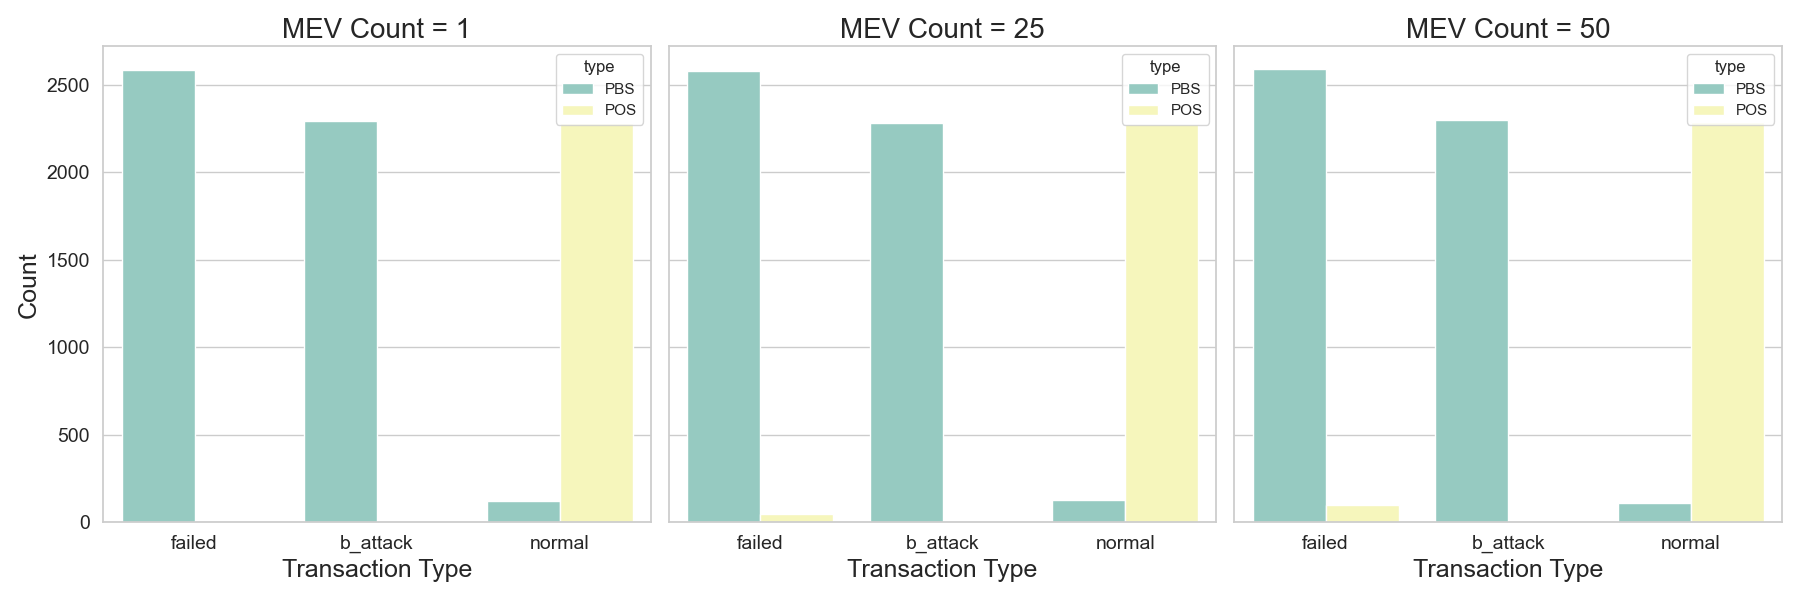
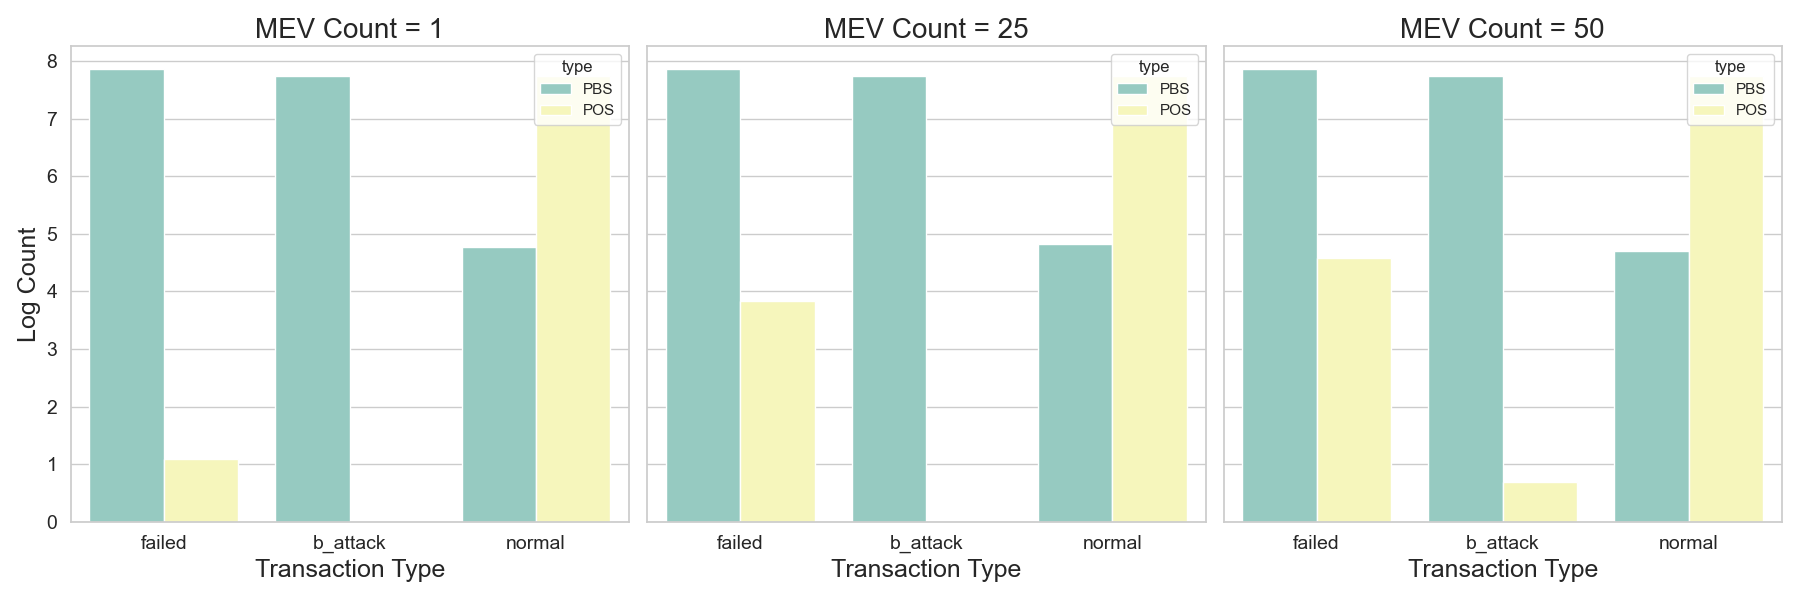
plot

diff --git a/plots/new/tx_inclusion.py b/plots/new/tx_inclusion.py
@@ -43,11 +43,14 @@ def plot_transaction_type_distribution(data_dir, mev_counts_to_plot):
                 'Count': list(pbs_transactions.values) + list(pos_transactions.values)
             })
 
-            sns.barplot(x='Transaction Type', y='Count', hue='type', data=combined_data, ax=axes[i], palette="Set3")
+            # Apply log transformation to the counts for better visualization
+            combined_data['Log Count'] = np.log1p(combined_data['Count'])
+
+            sns.barplot(x='Transaction Type', y='Log Count', hue='type', data=combined_data, ax=axes[i], palette="Set3")
             axes[i].set_title(f'MEV Count = {mev_count}', fontsize=20)
             axes[i].set_xlabel('Transaction Type', fontsize=18)
             axes[i].tick_params(axis='both', which='major', labelsize=14)
-            axes[i].set_ylabel('Count' if i == 0 else '', fontsize=18)
+            axes[i].set_ylabel('Log Count' if i == 0 else '', fontsize=18)
 
     plt.tight_layout()
     plt.savefig('figures/new/transaction_type_distribution.png')
